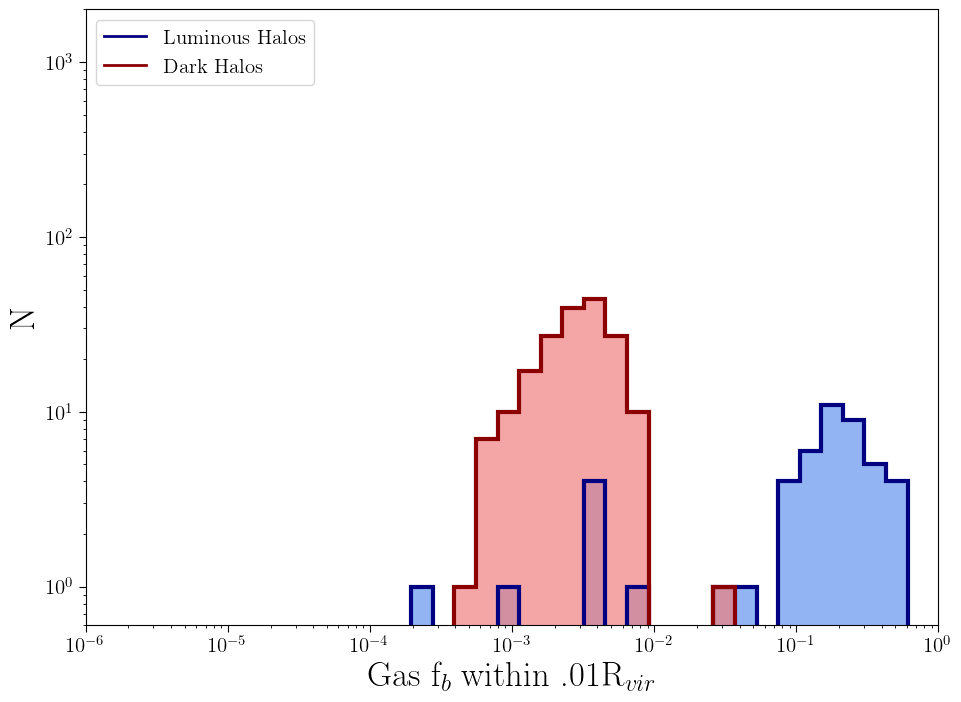
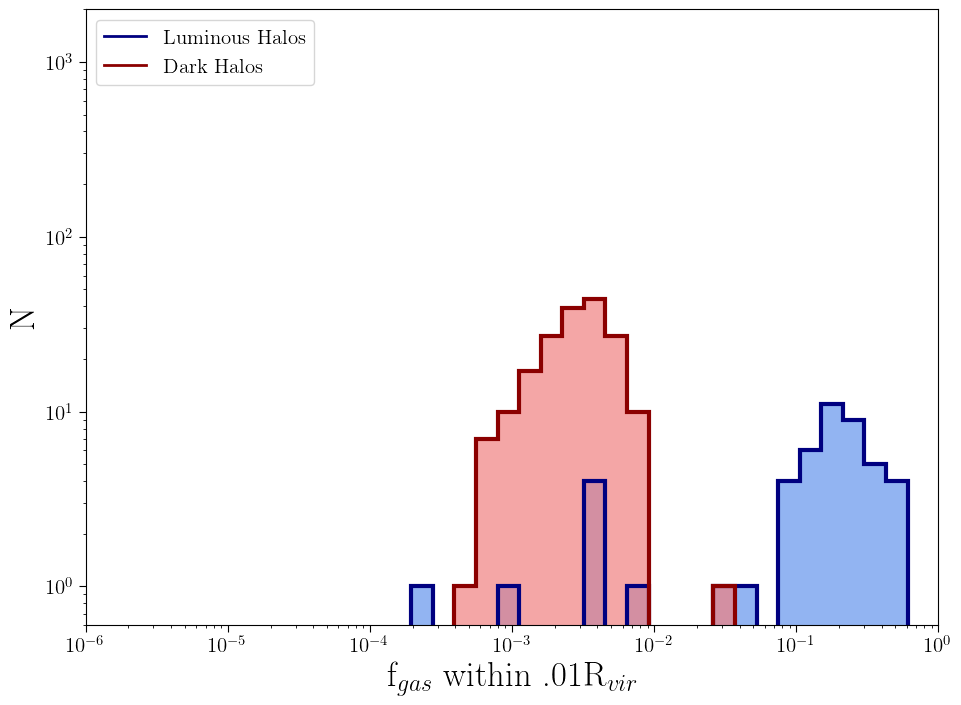
Updated Marvelz0 Plot Axes labels

diff --git a/Code/Plot.Marvel.z0.py b/Code/Plot.Marvel.z0.py
@@ -86,7 +86,7 @@ for t in [0,1,2]:
 
     f,ax = plt.subplots(1,1,figsize=(11,8))
     ax.set_ylabel('N',fontsize=25)
-    ax.set_xlabel(r'Gas f$_{b}$ within '+c2[t]+r'R$_{vir}$',fontsize=25)
+    ax.set_xlabel(r'f$_{gas}$ within '+c2[t]+r'R$_{vir}$',fontsize=25)
     ax.tick_params(length=5,labelsize=15)
     ax.set_xlim([1e-6,1])
     ax.semilogx()
@@ -108,7 +108,7 @@ for t in [0,1,2]:
 
     f,ax = plt.subplots(1,1,figsize=(11,8))
     ax.set_ylabel('N',fontsize=25)
-    ax.set_xlabel(r'Stellar f$_{b}$ within '+c2[t]+r'R$_{vir}$',fontsize=25)
+    ax.set_xlabel(r'f$_{stellar}$ within '+c2[t]+r'R$_{vir}$',fontsize=25)
     ax.tick_params(length=5,labelsize=15)
     ax.set_xlim([10**(-6.2),1])
     ax.semilogx()
